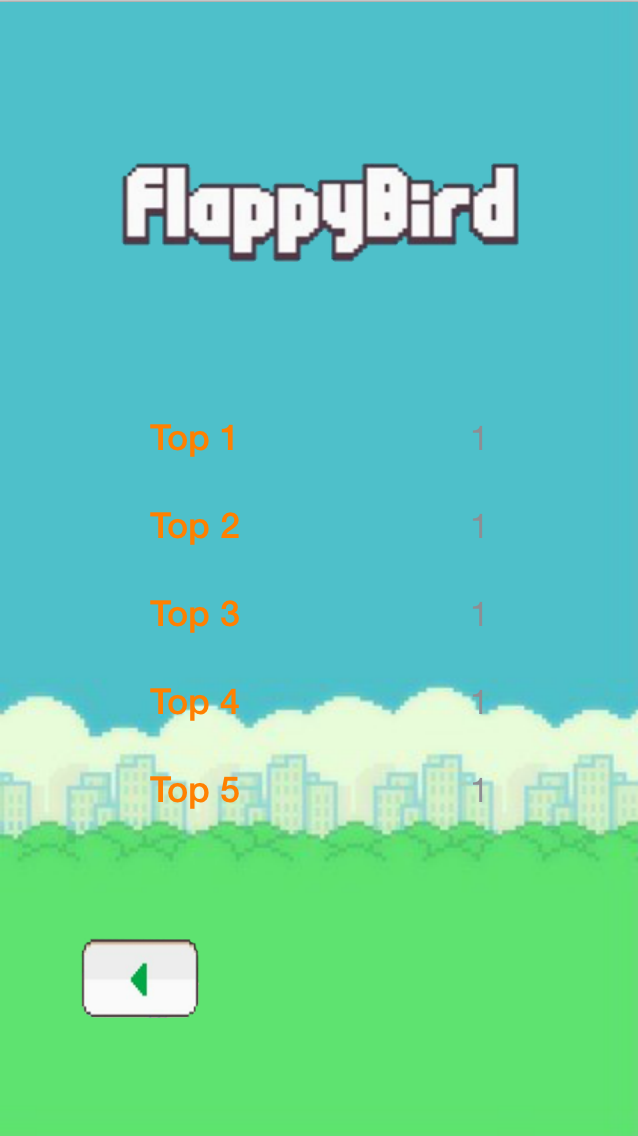
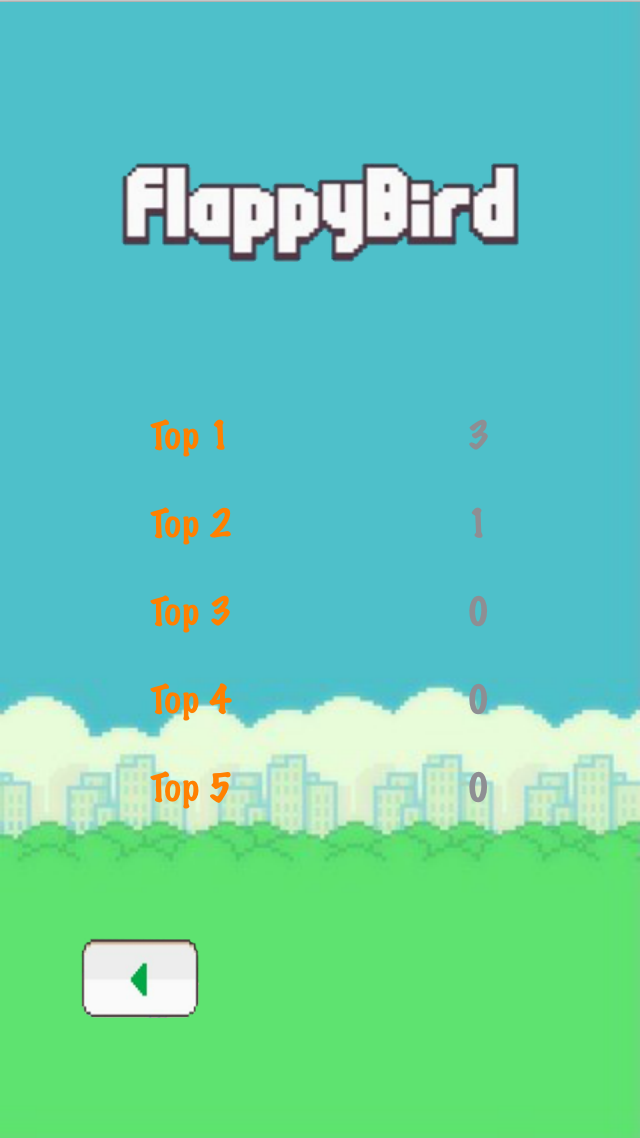
更改游戏字体，重新设备布局

diff --git a/flappyBird/RateViewController.m b/flappyBird/RateViewController.m
@@ -21,7 +21,7 @@
     [super viewDidLoad];
     // Do any additional setup after loading the view.
     
-    _rates = [NSArray arrayWithObjects:@"抓狂", @"超难", @"困难", @"一般", @"普通", nil];
+    _rates = [NSArray arrayWithObjects:@"crazy", @"hard", @"difficult", @"general", @"ordinary", nil];
     
     [self setupUI];
     
@@ -38,12 +38,12 @@
     [self.view addSubview:titleView];
     
     //提示语
-    CGFloat tipsW = 120;
+    CGFloat tipsW = 280;
     CGFloat tipsH = 40;
     CGFloat tipsX = (kScreenWidth - tipsW) / 2;
     UILabel *tips = [[UILabel alloc] initWithFrame:CGRectMake(tipsX, 150, tipsW, tipsH)];
-    tips.text = @"游戏难度";
-    tips.font = [UIFont boldSystemFontOfSize:30];
+    tips.text = @"The game difficulty";
+    tips.font = [UIFont fontWithName:@"Marker Felt" size:30];
     tips.textAlignment = NSTextAlignmentCenter;
     tips.textColor = [UIColor orangeColor];
     [self.view addSubview:tips];
@@ -72,8 +72,8 @@
         cell = [[UITableViewCell alloc] initWithStyle:UITableViewCellStyleDefault reuseIdentifier:cellId];
     }
     
-    cell.textLabel.font = [UIFont boldSystemFontOfSize:18];
     cell.textLabel.text = _rates[indexPath.row];
+    cell.textLabel.font = [UIFont fontWithName:@"Marker Felt" size:18];
     cell.backgroundColor = [UIColor clearColor];
     cell.selectionStyle = UITableViewCellSelectionStyleNone; //设置表格选择样式,不显示选中的样式
     if ([cell.textLabel.text isEqualToString:[DataTool stringForKey:kRateKey]]) {

diff --git a/flappyBird/ViewController.m b/flappyBird/ViewController.m
@@ -24,7 +24,7 @@
     // Do any additional setup after loading the view, typically from a nib.
     //初始化数据
     if ([DataTool stringForKey:kRateKey] == nil) {
-        [DataTool setObject:@"一般" forKey:kRateKey];
+        [DataTool setObject:@"general" forKey:kRateKey];
     }
     if ([DataTool objectForKey:kRankKey] == nil) {
         NSArray *ranks = [NSArray arrayWithObjects:@"0", @"0", @"0", @"0", @"0", nil];
@@ -58,7 +58,7 @@
     CGFloat bestH = 20;
     UILabel *bestScore = [[UILabel alloc] initWithFrame:CGRectMake(bestX, bestY, bestW, bestH)];
     bestScore.text = [NSString stringWithFormat:@"%zi", [DataTool integerForKey:kBestScoreKey]];
-    bestScore.font = [UIFont systemFontOfSize:16];
+    bestScore.font = [UIFont fontWithName:@"Marker Felt" size:16];
     bestScore.textAlignment = NSTextAlignmentRight;
     bestScore.textColor = [UIColor orangeColor];
     [self.view addSubview:bestScore];
@@ -70,7 +70,7 @@
     UILabel *score = [[UILabel alloc] initWithFrame:CGRectMake(scoreX, scoreY, scoreW, scoreH)];
     score.text = [NSString stringWithFormat:@"%zi", [DataTool integerForKey:kCurrentScoreKey]];
     
-    score.font = [UIFont systemFontOfSize:16];
+    score.font = [UIFont fontWithName:@"Marker Felt" size:16];
     score.textAlignment = NSTextAlignmentRight;
     score.textColor = [UIColor orangeColor];
     [self.view addSubview:score];

diff --git a/flappyBird/GameViewController.m b/flappyBird/GameViewController.m
@@ -92,8 +92,8 @@
     columnLabel = [[UILabel alloc]initWithFrame:CGRectMake(20, 0, kScreenWidth-40, kScreenHeight-100)];
     columnLabel.text = [NSString stringWithFormat:@"%zi",columnNumber];
     columnLabel.textAlignment = NSTextAlignmentCenter;
-    columnLabel.font = [UIFont boldSystemFontOfSize:150];
-    columnLabel.textColor = [UIColor colorWithRed:0.5 green:0.5 blue:0.5 alpha:0.5];
+    columnLabel.font = [UIFont fontWithName:@"Marker Felt" size:150];
+    columnLabel.textColor = [UIColor colorWithRed:0.6 green:0.5 blue:0.5 alpha:0.5];
     [self.view addSubview:columnLabel];
     [self.view insertSubview:columnLabel atIndex:2];
     

diff --git a/flappyBird/RankViewController.m b/flappyBird/RankViewController.m
@@ -73,11 +73,12 @@
     }
     
     cell.textLabel.textColor = [UIColor orangeColor];
-    cell.textLabel.font = [UIFont boldSystemFontOfSize:18];
+    cell.textLabel.font = [UIFont fontWithName:@"Marker Felt" size:20];
     cell.textLabel.text = _titles[indexPath.row];
     cell.backgroundColor = [UIColor clearColor];
     cell.selectionStyle = UITableViewCellSelectionStyleNone; //设置表格选择样式,不显示选中的样式
     cell.detailTextLabel.text = _ranks[indexPath.row];
+    cell.detailTextLabel.font = [UIFont fontWithName:@"Marker Felt" size:20];
     
     return cell;
 }
